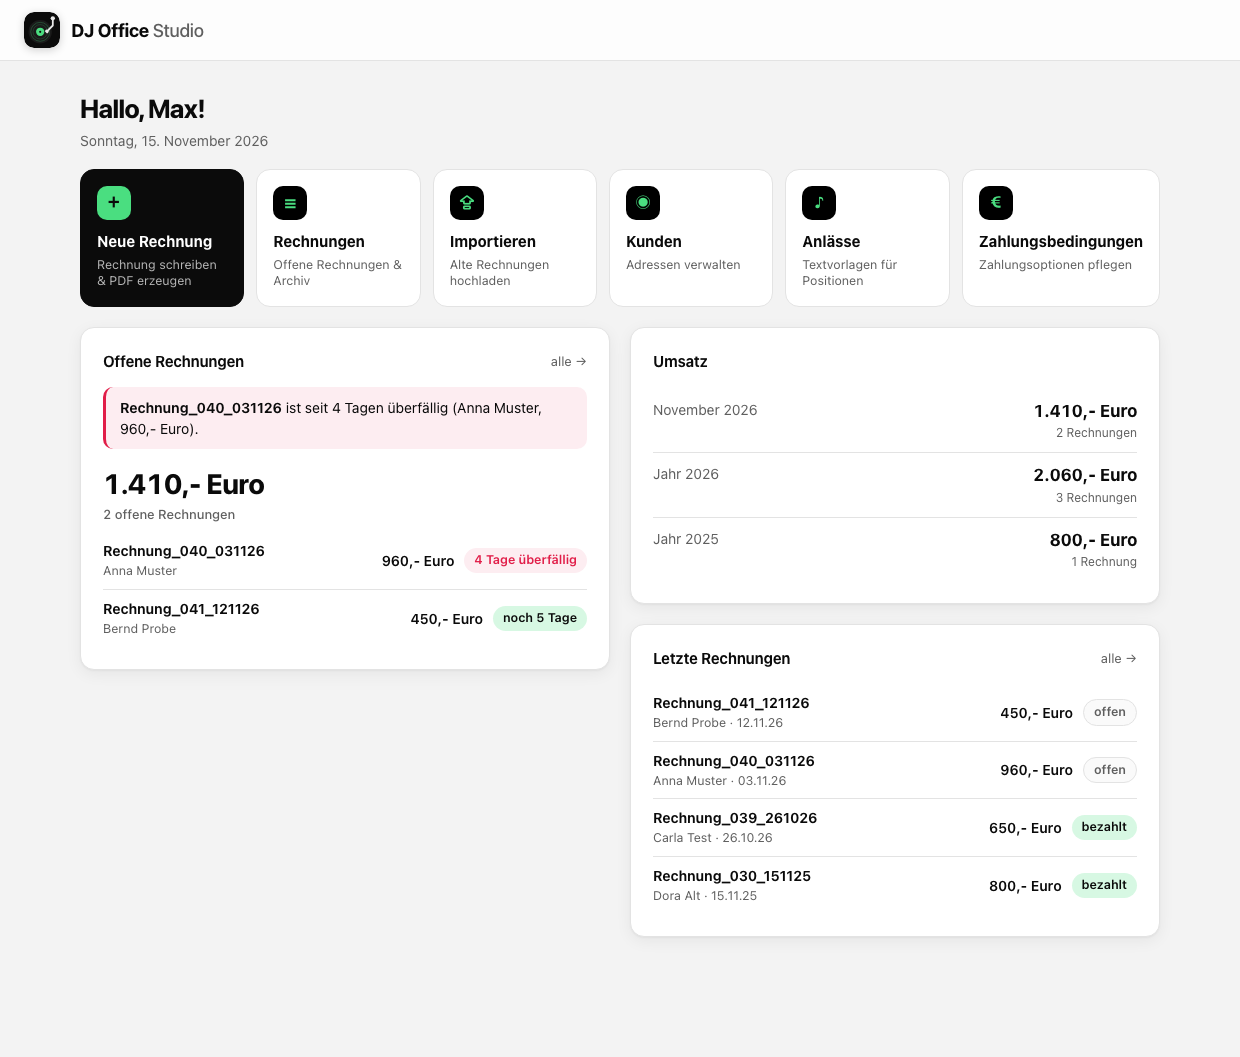
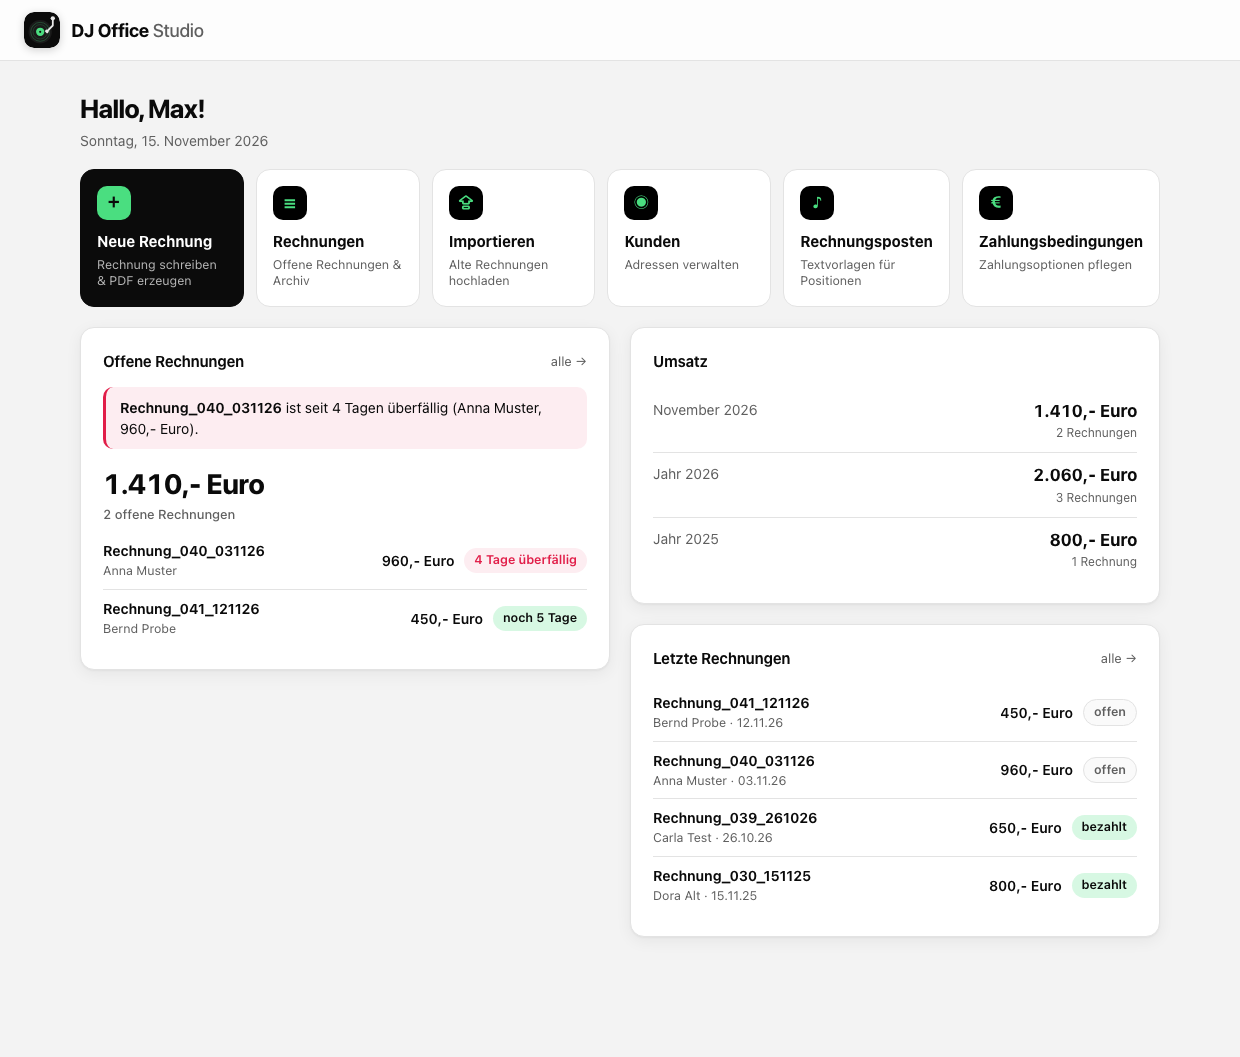
Anlässe in Rechnungsposten umbenannt

diff --git a/rechnungen/app/static/app.js b/rechnungen/app/static/app.js
@@ -179,7 +179,7 @@ $("#k-name").addEventListener("blur", () => setTimeout(closeAc, 100));
 function fillTbSelect(pos) {
   const sel = $(".tb", pos);
   const current = sel.value;
-  sel.innerHTML = `<option value="">Anlass wählen …</option>` +
+  sel.innerHTML = `<option value="">Rechnungsposten wählen …</option>` +
     state.textbausteine.map(t => `<option value="${t.id}">${esc(t.titel)}</option>`).join("") +
     `<option value="frei">Freitext (eigener Text)</option>`;
   sel.value = current;
@@ -537,11 +537,11 @@ const STAMM = {
     info: k => esc([k.strasse, [k.plz, k.ort].filter(Boolean).join(" ")].filter(Boolean).join(", ")),
   },
   textbausteine: {
-    titel: "Anlässe", einzahl: "Anlass",
-    hinweis: "Im Editor wählst du den Anlass und trägst die Zeiten ein – daraus entsteht der Rechnungstext. " +
-      "Bleibt die Text-Vorlage leer, wird „DJ – Tätigkeit <Anlass> – {von} Uhr bis {bis} Uhr“ verwendet. " +
+    titel: "Rechnungsposten", einzahl: "Rechnungsposten",
+    hinweis: "Im Editor wählst du den Rechnungsposten und trägst die Zeiten ein – daraus entsteht der Rechnungstext. " +
+      "Bleibt die Text-Vorlage leer, wird „DJ – Tätigkeit <Bezeichnung> – {von} Uhr bis {bis} Uhr“ verwendet. " +
       "{von} und {bis} werden durch die Uhrzeiten ersetzt.",
-    felder: [["titel", "Anlass (z. B. Hochzeit)"], ["text", "Text-Vorlage (optional)", "textarea"]],
+    felder: [["titel", "Bezeichnung (z. B. Hochzeit)"], ["text", "Text-Vorlage (optional)", "textarea"]],
     zeile: t => `${esc(t.titel)}<br><small>${esc(t.text)}</small>`,
     info: () => "",
   },
@@ -680,7 +680,7 @@ function renderImport() {
     </div>
 
     <div class="import-block">
-      <h3>Vorschläge für Anlässe <span class="badge">${d.textbausteine.length}</span></h3>
+      <h3>Vorschläge für Rechnungsposten <span class="badge">${d.textbausteine.length}</span></h3>
       <p class="hint">Uhrzeiten wurden durch {von}/{bis} ersetzt. Preisangaben wurden entfernt. Name und Vorlage kannst du hier noch anpassen.</p>
       ${d.textbausteine.map((t, i) => `<div class="tb-vorschlag">
           ${check("textbausteine", i, true)}
@@ -689,7 +689,7 @@ function renderImport() {
             <textarea class="tb-text" data-i="${i}" rows="2">${esc(t.text)}</textarea>
           </div>
           <span class="tag">${t.anzahl}×</span>
-        </div>`).join("") || `<p class="hint">Keine neuen Anlässe – alle gibt es schon.</p>`}
+        </div>`).join("") || `<p class="hint">Keine neuen Rechnungsposten – alle gibt es schon.</p>`}
     </div>
 
     <div class="import-block">
@@ -732,7 +732,7 @@ async function uebernehmeImport() {
   };
   try {
     const r = await api("import/uebernehmen", { method: "POST", body });
-    toast(`Übernommen: ${r.kunden} Empfänger, ${r.textbausteine} Anlässe, ${r.rechnungen} Rechnungen`);
+    toast(`Übernommen: ${r.kunden} Empfänger, ${r.textbausteine} Rechnungsposten, ${r.rechnungen} Rechnungen`);
     imp.daten = null;
     $("#import-ergebnis").innerHTML = "";
     $("#import-status").textContent = "";

diff --git a/rechnungen/app/static/index.html b/rechnungen/app/static/index.html
@@ -28,7 +28,7 @@
       <button data-tab="neu">Neue Rechnung</button>
       <button data-tab="liste">Rechnungen</button>
       <button data-tab="kunden">Kunden</button>
-      <button data-tab="textbausteine">Anlässe</button>
+      <button data-tab="textbausteine">Rechnungsposten</button>
       <button data-tab="zahlungsbedingungen">Zahlungsbedingungen</button>
     </nav>
   </header>
@@ -62,7 +62,7 @@
           <span class="a-icon">◉</span><span class="a-titel">Kunden</span><small>Adressen verwalten</small>
         </button>
         <button type="button" class="aktion" data-goto="textbausteine">
-          <span class="a-icon">♪</span><span class="a-titel">Anlässe</span><small>Textvorlagen für Positionen</small>
+          <span class="a-icon">♪</span><span class="a-titel">Rechnungsposten</span><small>Textvorlagen für Positionen</small>
         </button>
         <button type="button" class="aktion" data-goto="zahlungsbedingungen">
           <span class="a-icon">€</span><span class="a-titel">Zahlungsbedingungen</span><small>Zahlungsoptionen pflegen</small>
@@ -151,7 +151,7 @@
           <button type="button" id="import-zu" class="icon" title="Schließen">✕</button>
         </div>
         <p class="hint">PDFs deiner bisherigen Rechnungen hochladen. Daraus werden Empfänger und
-          Vorschläge für Anlässe erkannt – du entscheidest danach, was übernommen wird.</p>
+          Vorschläge für Rechnungsposten erkannt – du entscheidest danach, was übernommen wird.</p>
         <label class="dropzone" id="dropzone">
           <input type="file" id="import-dateien" accept=".pdf,application/pdf" multiple>
           <strong>PDFs hierher ziehen</strong> oder klicken zum Auswählen
@@ -201,13 +201,13 @@
     <div class="pos">
       <button type="button" class="icon del" title="Position entfernen">✕</button>
       <div class="pos-head">
-        <label class="anlass">Anlass <select class="tb"></select></label>
+        <label class="anlass">Rechnungsposten <select class="tb"></select></label>
         <label class="zeit calc">von <input type="time" class="von"></label>
         <label class="zeit calc">bis <input type="time" class="bis"></label>
         <span class="stunden calc"></span>
       </div>
       <label class="text-label">Text auf der Rechnung <span class="opt text-hinweis"></span>
-        <textarea class="beschreibung" rows="2" placeholder="Anlass wählen und Zeiten eintragen – oder eigenen Text schreiben"></textarea>
+        <textarea class="beschreibung" rows="2" placeholder="Rechnungsposten wählen und Zeiten eintragen – oder eigenen Text schreiben"></textarea>
       </label>
       <div class="pos-foot">
         <label>Lieferdatum <input type="date" class="lieferdatum"></label>

diff --git a/README.md b/README.md
@@ -2,7 +2,7 @@
 
 # DJ Office Studio
 
-Eine Home-Assistant-App zum Schreiben von DJ-Rechnungen. Kunden auswählen, Anlass und Uhrzeiten eintragen, Preis festlegen – fertig ist das PDF im Layout der bisherigen Word-Vorlage.
+Eine Home-Assistant-App zum Schreiben von DJ-Rechnungen. Kunden auswählen, Rechnungsposten und Uhrzeiten eintragen, Preis festlegen – fertig ist das PDF im Layout der bisherigen Word-Vorlage.
 
 ![Screenshot: Rechnung erstellen](docs/screenshot.png)
 
@@ -11,7 +11,7 @@ Eine Home-Assistant-App zum Schreiben von DJ-Rechnungen. Kunden auswählen, Anla
 - **Startseite** mit Kacheln für alle Aktionen der App und dem Status der Rechnungen: offene Rechnungen mit Restzeit und Warnung bei Überfälligkeit, Umsatz nach Monat/Jahr und die letzten Rechnungen.
 - **Rechnungseditor**
   - Kunde mit Autovervollständigung aus bisherigen Kunden; neue Kunden werden beim Speichern automatisch angelegt
-  - Positionen per **Anlass** (Hochzeit, Geburtstag, Firmenfeier, …) mit **von/bis-Zeiten** – der Rechnungstext wird daraus erzeugt, z. B. „DJ – Tätigkeit Hochzeit – 17:00 Uhr bis 2:00 Uhr“
+  - Positionen per **Rechnungsposten** (Hochzeit, Geburtstag, Firmenfeier, …) mit **von/bis-Zeiten** – der Rechnungstext wird daraus erzeugt, z. B. „DJ – Tätigkeit Hochzeit – 17:00 Uhr bis 2:00 Uhr“
   - Freitext-Positionen für alles andere (z. B. Fahrtkosten)
   - Preis wird pro Position individuell eingetragen
   - Auswählbare Zahlungsbedingungen (Überweisung 8/14 Tage, bar erhalten, …)
@@ -19,8 +19,8 @@ Eine Home-Assistant-App zum Schreiben von DJ-Rechnungen. Kunden auswählen, Anla
 - **PDF** im A4-Layout mit Absenderzeile, Adressfeld, Positionstabelle und Fußzeile (Bankverbindung, Steuernummer, Kleinunternehmer-Hinweis nach §19 UStG). Vorschau vor dem Speichern; beim Speichern wird eine Kopie im Ordner `/share/rechnungen` abgelegt.
 - **Offene Rechnungen** auf einen Blick: eine Summenzeile mit Anzahl, Gesamtbetrag und nächster Frist; darunter je Rechnung Rechnungsname (z. B. `Rechnung_037_311026`), Betrag, verbleibende Zeit („noch 5 Tage“, „3 Tage überfällig“) und ein Haken zum Abhaken, wenn bezahlt wurde. Das Zahlungsziel wird aus der Zahlungsbedingung gelesen (z. B. „innerhalb der nächsten 8 Tage“) und ab dem Rechnungsdatum gerechnet.
 - **Archiv** für bezahlte Rechnungen: Wird eine offene Rechnung abgehakt, wandert sie ins Archiv – mit Suche und Sortierung nach Nummer, Datum, Betrag oder Kunde. Rechnungen lassen sich jederzeit bearbeiten oder wieder auf „offen“ setzen.
-- **Import alter Rechnungen**: Bisherige Rechnungs-PDFs hochladen – Empfänger, Positionen und Vorschläge für Anlässe werden erkannt und können übernommen werden, optional auch die Rechnungen selbst als Archiv.
-- **Stammdaten** für Kunden, Anlässe und Zahlungsbedingungen.
+- **Import alter Rechnungen**: Bisherige Rechnungs-PDFs hochladen – Empfänger, Positionen und Vorschläge für Rechnungsposten werden erkannt und können übernommen werden, optional auch die Rechnungen selbst als Archiv.
+- **Stammdaten** für Kunden, Rechnungsposten und Zahlungsbedingungen.
 - Helles und dunkles Design (folgt der Geräteeinstellung).
 
 ## Installation
@@ -62,17 +62,17 @@ Solange Name oder IBAN fehlen, zeigt die App oben einen Hinweis.
 
 ![Screenshot: Startseite](docs/startseite.png)
 
-**Neue Rechnung:** Kundennamen eintippen und einen Vorschlag übernehmen (oder neue Adresse eingeben). Pro Position einen Anlass wählen, von/bis eintragen, Lieferdatum und Preis ergänzen. Zahlungsbedingung wählen, dann **PDF-Vorschau** oder **Rechnung speichern & PDF öffnen**.
+**Neue Rechnung:** Kundennamen eintippen und einen Vorschlag übernehmen (oder neue Adresse eingeben). Pro Position einen Rechnungsposten wählen, von/bis eintragen, Lieferdatum und Preis ergänzen. Zahlungsbedingung wählen, dann **PDF-Vorschau** oder **Rechnung speichern & PDF öffnen**.
 
-**Anlässe:** Im gleichen Tab neue Anlässe anlegen. Ohne eigene Text-Vorlage wird `DJ – Tätigkeit <Anlass> – {von} Uhr bis {bis} Uhr` verwendet; `{von}` und `{bis}` werden durch die Uhrzeiten ersetzt.
+**Rechnungsposten:** Im gleichen Tab neue Rechnungsposten (z. B. Hochzeit) anlegen. Ohne eigene Text-Vorlage wird `DJ – Tätigkeit <Bezeichnung> – {von} Uhr bis {bis} Uhr` verwendet; `{von}` und `{bis}` werden durch die Uhrzeiten ersetzt.
 
-**Alte Rechnungen importieren:** Im Tab **Rechnungen** auf **Alte Rechnungen importieren** klicken und PDFs hineinziehen. Danach auswählen, welche Empfänger, Anlässe und Rechnungen übernommen werden. Erkannt werden PDFs mit echtem Text im Aufbau der Vorlage (Absenderzeile mit „|“, Adresse, „Rechnung Nr.“, Tabelle, „Gesamt“). Eingescannte Rechnungen werden nicht unterstützt.
+**Alte Rechnungen importieren:** Im Tab **Rechnungen** auf **Alte Rechnungen importieren** klicken und PDFs hineinziehen. Danach auswählen, welche Empfänger, Rechnungsposten und Rechnungen übernommen werden. Erkannt werden PDFs mit echtem Text im Aufbau der Vorlage (Absenderzeile mit „|“, Adresse, „Rechnung Nr.“, Tabelle, „Gesamt“). Eingescannte Rechnungen werden nicht unterstützt.
 
 ## Daten & Backup
 
 | Was | Wo |
 |---|---|
-| Kunden, Anlässe, Zahlungsbedingungen, Rechnungen | SQLite-Datenbank `rechnungen.db` im App-Datenordner (`/data`) |
+| Kunden, Rechnungsposten, Zahlungsbedingungen, Rechnungen | SQLite-Datenbank `rechnungen.db` im App-Datenordner (`/data`) |
 | PDF-Kopien | `pdf_ordner`, standardmäßig `/share/rechnungen` (z. B. per Samba erreichbar) |
 
 Beides ist in den normalen Home-Assistant-Backups enthalten.

diff --git a/rechnungen/CHANGELOG.md b/rechnungen/CHANGELOG.md
@@ -2,6 +2,11 @@
 
 Alle Änderungen an DJ Office Studio. Neueste Version oben.
 
+## 0.5.3 – 2026-11-15
+
+### Geändert
+- **„Anlässe“ heißt jetzt „Rechnungsposten“** – im Menü, auf der Startseite, im Editor („Rechnungsposten wählen …“) und beim Import. Bestehende Einträge bleiben unverändert erhalten.
+
 ## 0.5.2 – 2026-11-15
 
 ### Geändert
